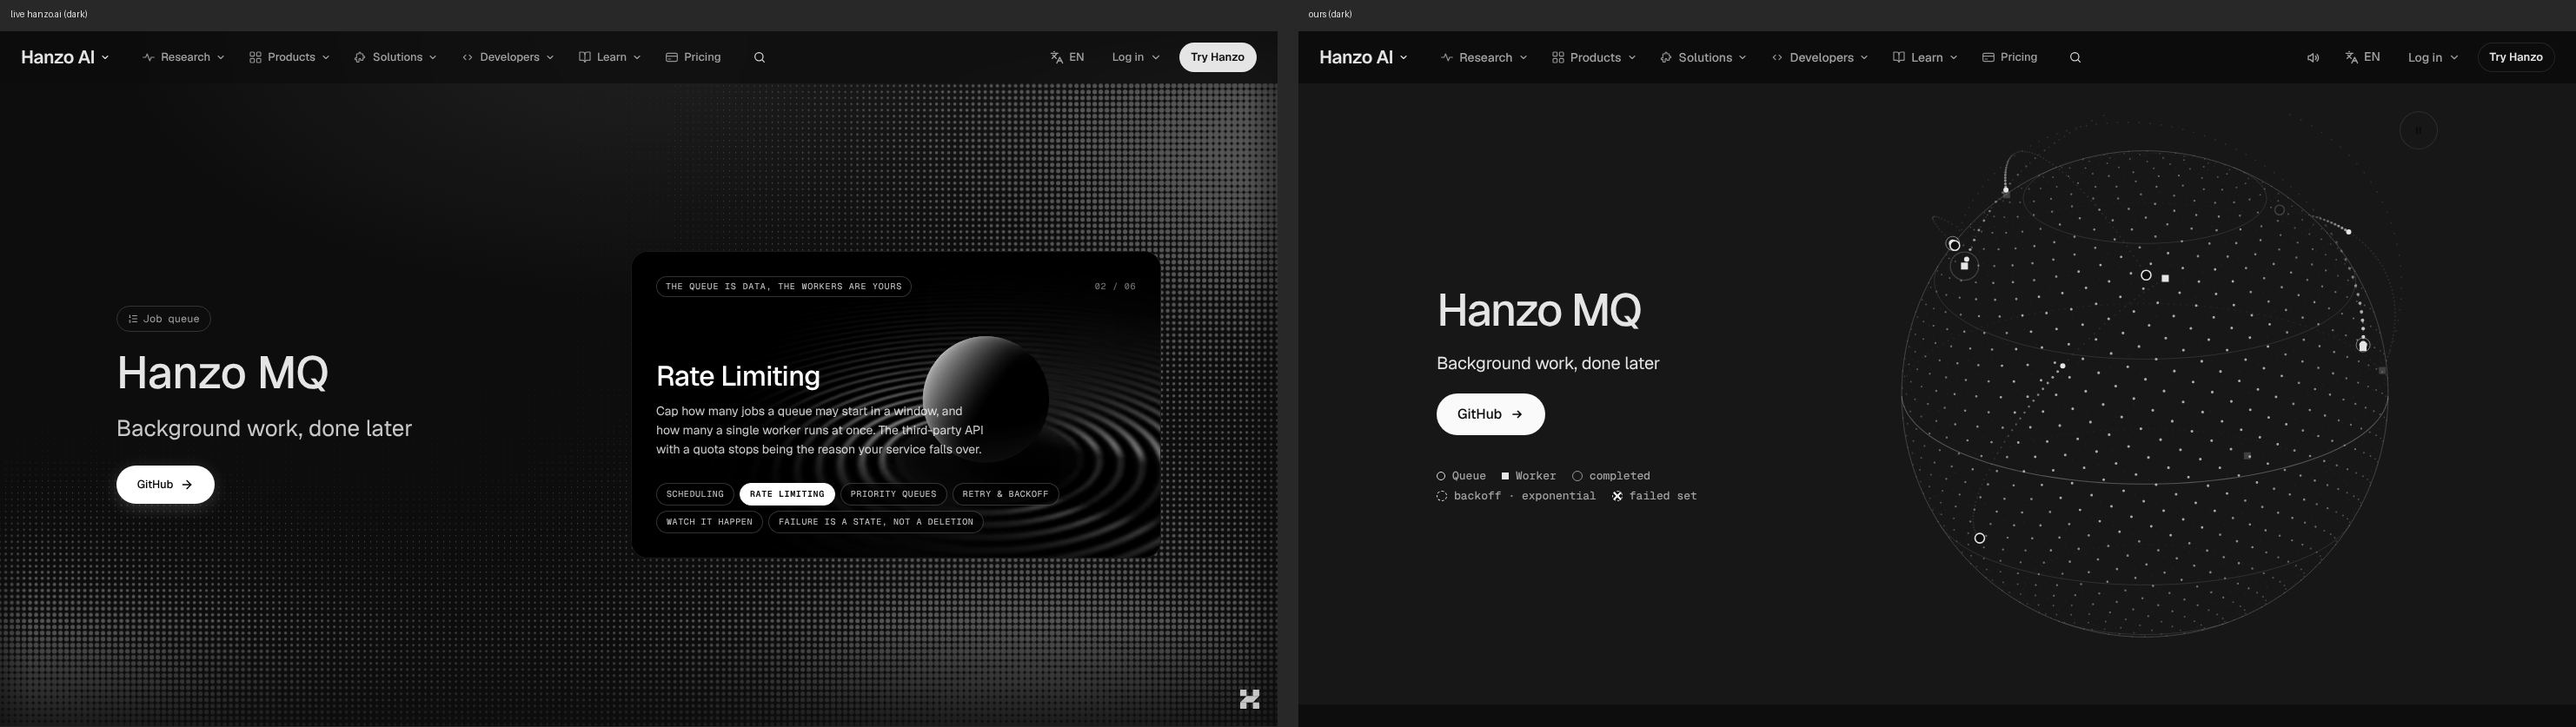
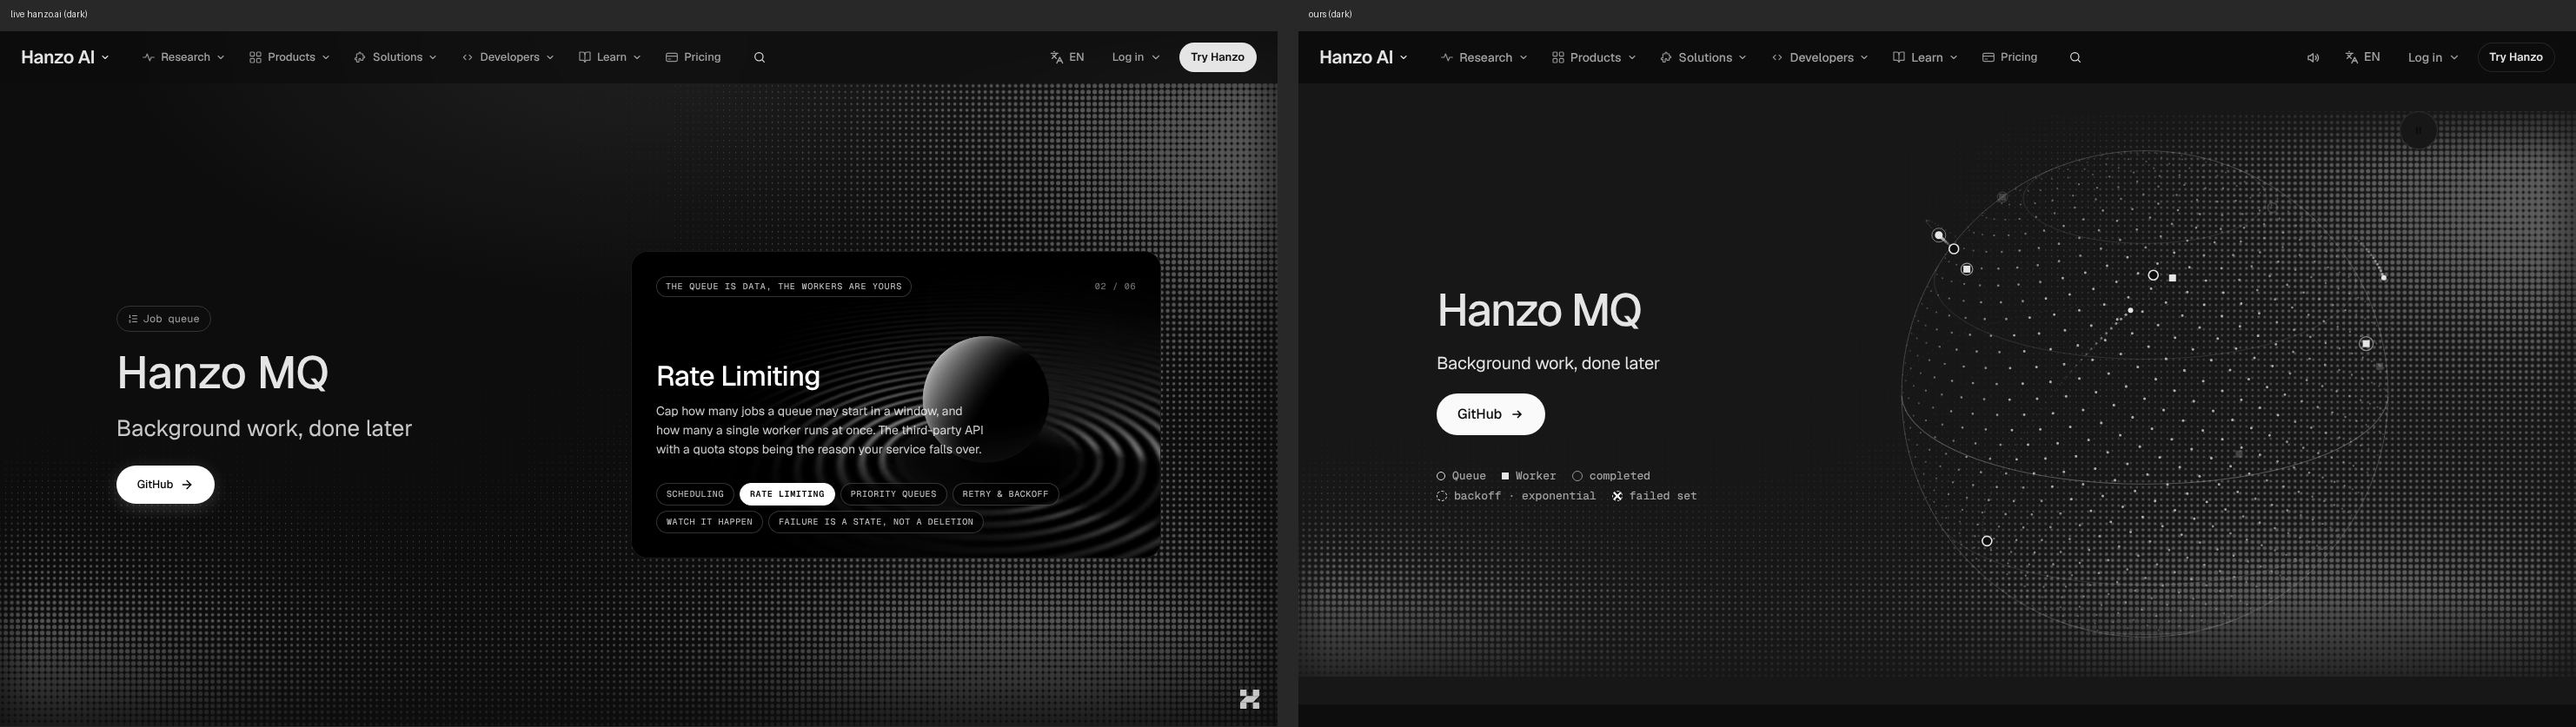
mq: dark mode — live's hero halftone (HeroDither) under the hero in dark; checks re-run (darkcheck, lightcheck OK, copycheck 0, 0 errors, no sideways scroll)
Claude-Session: https://claude.ai/code/session_01P5YBdv7StJZXmK5oNtoxtW

Changed region(s): [[0.7139, 0.1553, 1.0, 0.9319], [0.4966, 0.7455, 0.6518, 0.9008], [0.7449, 0.3106, 0.776, 0.3728]]

diff --git a/components/pages/cloud/Mq.jsx b/components/pages/cloud/Mq.jsx
@@ -31,6 +31,7 @@ import SpecDrawer from '../../v2/SpecDrawer';
 import LaunchClose, { Arr } from '../../v2/LaunchClose';
 import LivePause, { usePause } from '../../v2/LivePause';
 import MqGlobe from './MqGlobe';
+import HeroDither from '../HeroDither';
 import { ShrinkToCard, Iris, Scramble, Scr, CountRoll, Roll, CursorLens, Lens } from './MqEntrances';
 import './Mq.css';
 
@@ -368,6 +369,7 @@ export default function Mq() {
     <main className="lx mq" data-cursor="">
       {/* 1 · shrink-to-card: the globe's quiet room becomes a card as you leave it */}
       <ShrinkToCard className="mq-hero" data-morph-target data-ask-name="Hanzo MQ">
+        <HeroDither />
         <div className="lx-wrap mq-top">
           <div className="mq-lead">
             <h1 className="lx-display mq-h1">Hanzo MQ</h1>

diff --git a/docs/review/mq.md b/docs/review/mq.md
@@ -2,7 +2,7 @@
 
 Verdict: 8/10
 Ready: 8 Nov, copycheck missing 0 of 29 (live hanzo.ai). worker.ts is coloured the way hanzo.ai cuts it (keywords and strings picked out, each remaining run one span), so "worker = new" and "job.data.userId" read whole as live has them; the Cron spec row carries live's "Scheduling" again. taste/unique OK; 0 console errors, no overlap at 1470x801 and 375x812.
-Dark: 8 Nov, matches live hanzo.ai in dark side by side (docs/gallery/mq/dark-*.jpg); darkcheck OK, lightcheck OK, copycheck 0. (The globe reads its ink and paper from CSS and redraws when the theme changes; the shared .lx kit, close art and spec sheet are pointed at Hanzo's tokens page-locally under .mq; the worker.ts room stays black.)
+Dark: 8 Nov, matches live hanzo.ai in dark side by side (docs/gallery/mq/dark-*.jpg); darkcheck OK, lightcheck OK, copycheck 0. (The globe reads its ink and paper from CSS and redraws when the theme changes; the shared .lx kit, close art and spec sheet are pointed at Hanzo's tokens page-locally under .mq; the worker.ts room stays black.) Live's hero halftone (HeroDither, ported from hanzo.ai's own Dither) sits under the hero in dark, as live draws it; bright mode unchanged.
 First complaint: "Good, the queue is actually working in front of me. But when I scroll between chapters the box goes blank and two headlines sit on top of each other for a moment, and underneath it's the same running order as PubSub and Storage: hero, pinned chapters, black code room, figure, contour card."
 
 Walked 7 Nov 2026 on the dev server at 1470x801 and 375x812: full recorder walk at both sizes (15 desktop and 18 phone scroll stops, a/b idle pairs, first 0/1000/3000 ms, 14 hovers, 16 clicks, video). Then my own Playwright probes: arrival frames at 0 to 800 ms, CTA hover and press styles, conveyor ticket hover (peek), inspector tab hover and click-to-chapter, Retry/Undo, the ghost link, a 60-stop Tab crawl, a wheel-scroll check of the header, reduced motion (3.5 s, `getAnimations()`), JS off (full page), and the phone pinned scene with the cookie card dismissed. `scripts/parity.py /mq`: OK, text 81/81, links 2/2.
